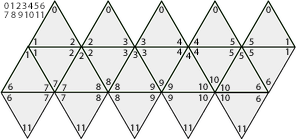
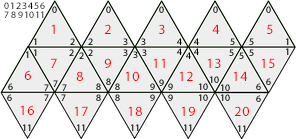
Changed subdivision to 9 tries instead of 4 (edges by 3 instead of 2), which reveals hexagons in both a logical and physical way. Added a flattening pass to visually creates hexes. Still missing a pass to create pentagons and hexes that are between faces, probably via neighbor logic?

diff --git a/project/Assets/Scripts/Service/HexSphereService.cs b/project/Assets/Scripts/Service/HexSphereService.cs
@@ -1,4 +1,5 @@
-using System.Collections.Generic;
+using System;
+using System.Collections.Generic;
 using UnityEngine;
 
 namespace Thomas
@@ -117,13 +118,13 @@ namespace Thomas
             var container = new GameObject {name = "GeodesicSphere_" + resolution + "_Subdivisions"};
             container.transform.parent = World;
             var pos = Vector3.zero;
-            pos.x = 2.5f * (resolution % 4);
-            pos.y = 2.5f - (2 * resolution / 8) * 2.5f;
+            //pos.x = 2.5f * (resolution % 4);
+            //pos.y = 2.5f - (2 * resolution / 8) * 2.5f;
             container.transform.position = pos;
 
             var isSingleMesh = resolution <= MaxResolutionWithSingleMesh;
 
-            _nbVertices = NbIcosahedronFaces * 3 * (int) Mathf.Pow(4, resolution); // 20 triangles on an icosahedron, 3 vertices per triangle, each triangle when subdivided yields 4 triangles
+            _nbVertices = NbIcosahedronFaces * 3 * (int) Mathf.Pow(9, resolution); // 20 triangles on an icosahedron, 3 vertices per triangle, each triangle when subdivided yields 4 triangles
             var verticesPerFace = _nbVertices / NbIcosahedronFaces;
             var meshSubdivisionDepth = (int) Mathf.Pow(4, Mathf.Max(0, resolution - MaxResolutionBeforeMeshSubdivision));
             var nbMeshSubdivisions = isSingleMesh ? 1 : NbIcosahedronFaces * meshSubdivisionDepth;
@@ -137,7 +138,10 @@ namespace Thomas
             _spherePoints = new List<Vector3>(_nbVertices);
             _sphereUvs = new List<Vector2>(_nbVertices);
             _sphereTris = new List<int>(verticesPerMesh);
-
+            _centers = new List<Vector3>();
+            _v1s = new List<Vector3>();
+            _hexes = new List<Hex>();
+            
             FunctionTimer.START_FUNCTION_TIMER("Subdivision_Total_" + resolution);
             for (var i = 0; i < NbIcosahedronFaces; i++)
             {
@@ -149,9 +153,10 @@ namespace Thomas
                     IsocahedronTriangleUvs[i][2],
                     resolution, i == 0 || isSingleMesh);
             }
-
             FunctionTimer.STOP_FUNCTION_TIMER("Subdivision_Total_" + resolution);
 
+            FlattenHexes();
+            
             FunctionTimer.START_FUNCTION_TIMER("MeshCreation_Total_" + resolution);
             for (var i = 0; i < nbMeshSubdivisions; i++)
             {
@@ -199,20 +204,76 @@ namespace Thomas
 
                 return;
             }
+            
+            var vctr = (v1 + v2+ v3).normalized;
+            _centers.Add(vctr);
+            var v12a = (v1 + (v2 - v1) / 3f).normalized; 
+            var v12b = (v1 + (v2 - v1) / 3f * 2f).normalized; 
+            var v23a = (v2 + (v3 - v2) / 3f).normalized;  
+            var v23b = (v2 + (v3 - v2) / 3f * 2f).normalized;  
+            var v13a = (v1 + (v3 - v1) / 3f).normalized;  
+            var v13b = (v1 + (v3 - v1) / 3f * 2f).normalized; 
 
-            var v12 = (v1 + v2).normalized;
-            var v23 = (v2 + v3).normalized;
-            var v31 = (v3 + v1).normalized;
-
-            var uv12 = (uv1 + uv2) / 2f;
-            var uv23 = (uv2 + uv3) / 2f;
-            var uv31 = (uv3 + uv1) / 2f;
-
+            var uvctr = (uv1 + uv2 + uv3) / 3f;
+            var uv12a = (uv1 + (uv2 - uv1) / 3f); 
+            var uv12b = (uv1 + (uv2 - uv1) / 3f * 2f);
+            var uv23a = (uv2 + (uv3 - uv2) / 3f);  
+            var uv23b = (uv2 + (uv3 - uv2) / 3f * 2f);
+            var uv13a = (uv1 + (uv3 - uv1) / 3f);  
+            var uv13b = (uv1 + (uv3 - uv1) / 3f * 2f);
+            
             var addTrisDepth = addTris && depth <= 7;
-            Subdivide(v1, v12, v31, uv1, uv12, uv31, depth - 1, addTris);
-            Subdivide(v2, v23, v12, uv2, uv23, uv12, depth - 1, addTrisDepth);
-            Subdivide(v3, v31, v23, uv3, uv31, uv23, depth - 1, addTrisDepth);
-            Subdivide(v12, v23, v31, uv12, uv23, uv31, depth - 1, addTrisDepth);
+
+            Subdivide(v1, v12a, v13a, uv1, uv12a, uv13a, depth - 1, addTrisDepth); // not hex
+            Subdivide(v2, v23a, v12b, uv2, uv23a, uv12b, depth - 1, addTrisDepth); // not hex
+            Subdivide(v3, v13b, v23b, uv3, uv13b, uv23b, depth - 1, addTrisDepth); // not hex
+
+            if(depth -1 == 0)
+                _hexes.Add(new Hex(((v1 + v2).normalized + (v2 + v3).normalized + (v1 + v3).normalized) / 3f, _spherePoints.Count));
+            
+            Subdivide(vctr, v12a, v12b, uvctr, uv12a, uv12b, depth - 1, addTrisDepth);
+            Subdivide(vctr, v13a, v12a, uvctr, uv13a, uv12a, depth - 1, addTrisDepth);
+            Subdivide(vctr, v12b, v23a, uvctr, uv12b, uv23a, depth - 1, addTrisDepth);
+            Subdivide(vctr, v23a, v23b, uvctr, uv23a, uv23b, depth - 1, addTrisDepth);
+            Subdivide(vctr, v13b, v13a, uvctr, uv13b, uv13a, depth - 1, addTrisDepth);
+            Subdivide(vctr, v23b, v13b, uvctr, uv23b, uv13b, depth - 1, addTrisDepth);
+        }
+
+        private List<Hex> _hexes;
+        private class Hex
+        {
+            public int CenterVertIdx;
+            public Vector3 CenterVertPos;
+
+            public Hex(Vector3 pos, int idx)
+            {
+                CenterVertPos = pos;
+                CenterVertIdx = idx;
+            }
+        }
+        
+        private void FlattenHexes()
+        {
+            foreach (var hex in _hexes)
+            {
+                for (var i = 0; i < 6; i++)
+                    _spherePoints[hex.CenterVertIdx + (i * 3)] = hex.CenterVertPos;
+            }
+        }
+
+        private List<Vector3> _centers;
+        private List<Vector3> _v1s;
+
+        protected void OnDrawGizmos()
+        {
+            Gizmos.color = Color.blue;
+            if(_centers != null) 
+                foreach (var ctr in _centers) 
+                    Gizmos.DrawWireSphere(ctr, 0.05f);
+            Gizmos.color = Color.red;
+            if(_v1s != null)
+                foreach (var v1 in _v1s)
+                    Gizmos.DrawWireSphere(v1, 0.05f);
         }
 
         private static void CalculateMeshTangents(Mesh mesh)
